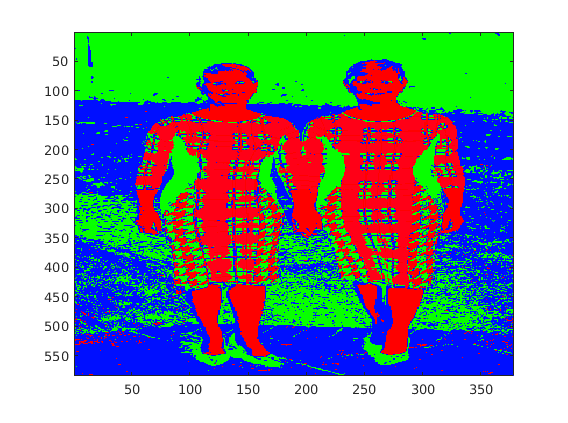
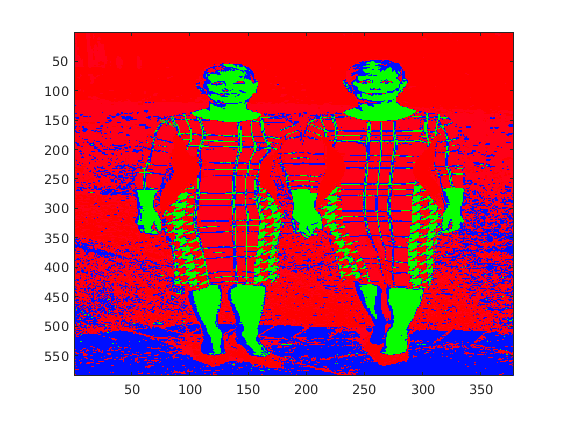
final results

diff --git a/segmentMain.m b/segmentMain.m
@@ -1,8 +1,8 @@
 % k-means segmentation experiments
 % Author: Jin Yeom (jinyeom@utexas.edu)
 
-% Seed the random number generator with 42.
-rng(42);
+% Seed the random number generator with 1.
+rng(1);
 
 % Test images.
 I = im2double(imread('images/gumballs.jpg'));
@@ -96,8 +96,8 @@ disp('Car figure saved.')
 close
 
 disp('Comparing window sizes...')
-win1 = 5; % smaller window size
-win2 = 65; % larger window size
+win1 = 25; % smaller window size
+win2 = 85; % larger window size
 [~, textureSmallWin] = compareSegmentations(I, F, T, win1, ...
   numColorRegions, numTextureRegions);
 [~, textureLargeWin] = compareSegmentations(I, F, T, win2, ...
